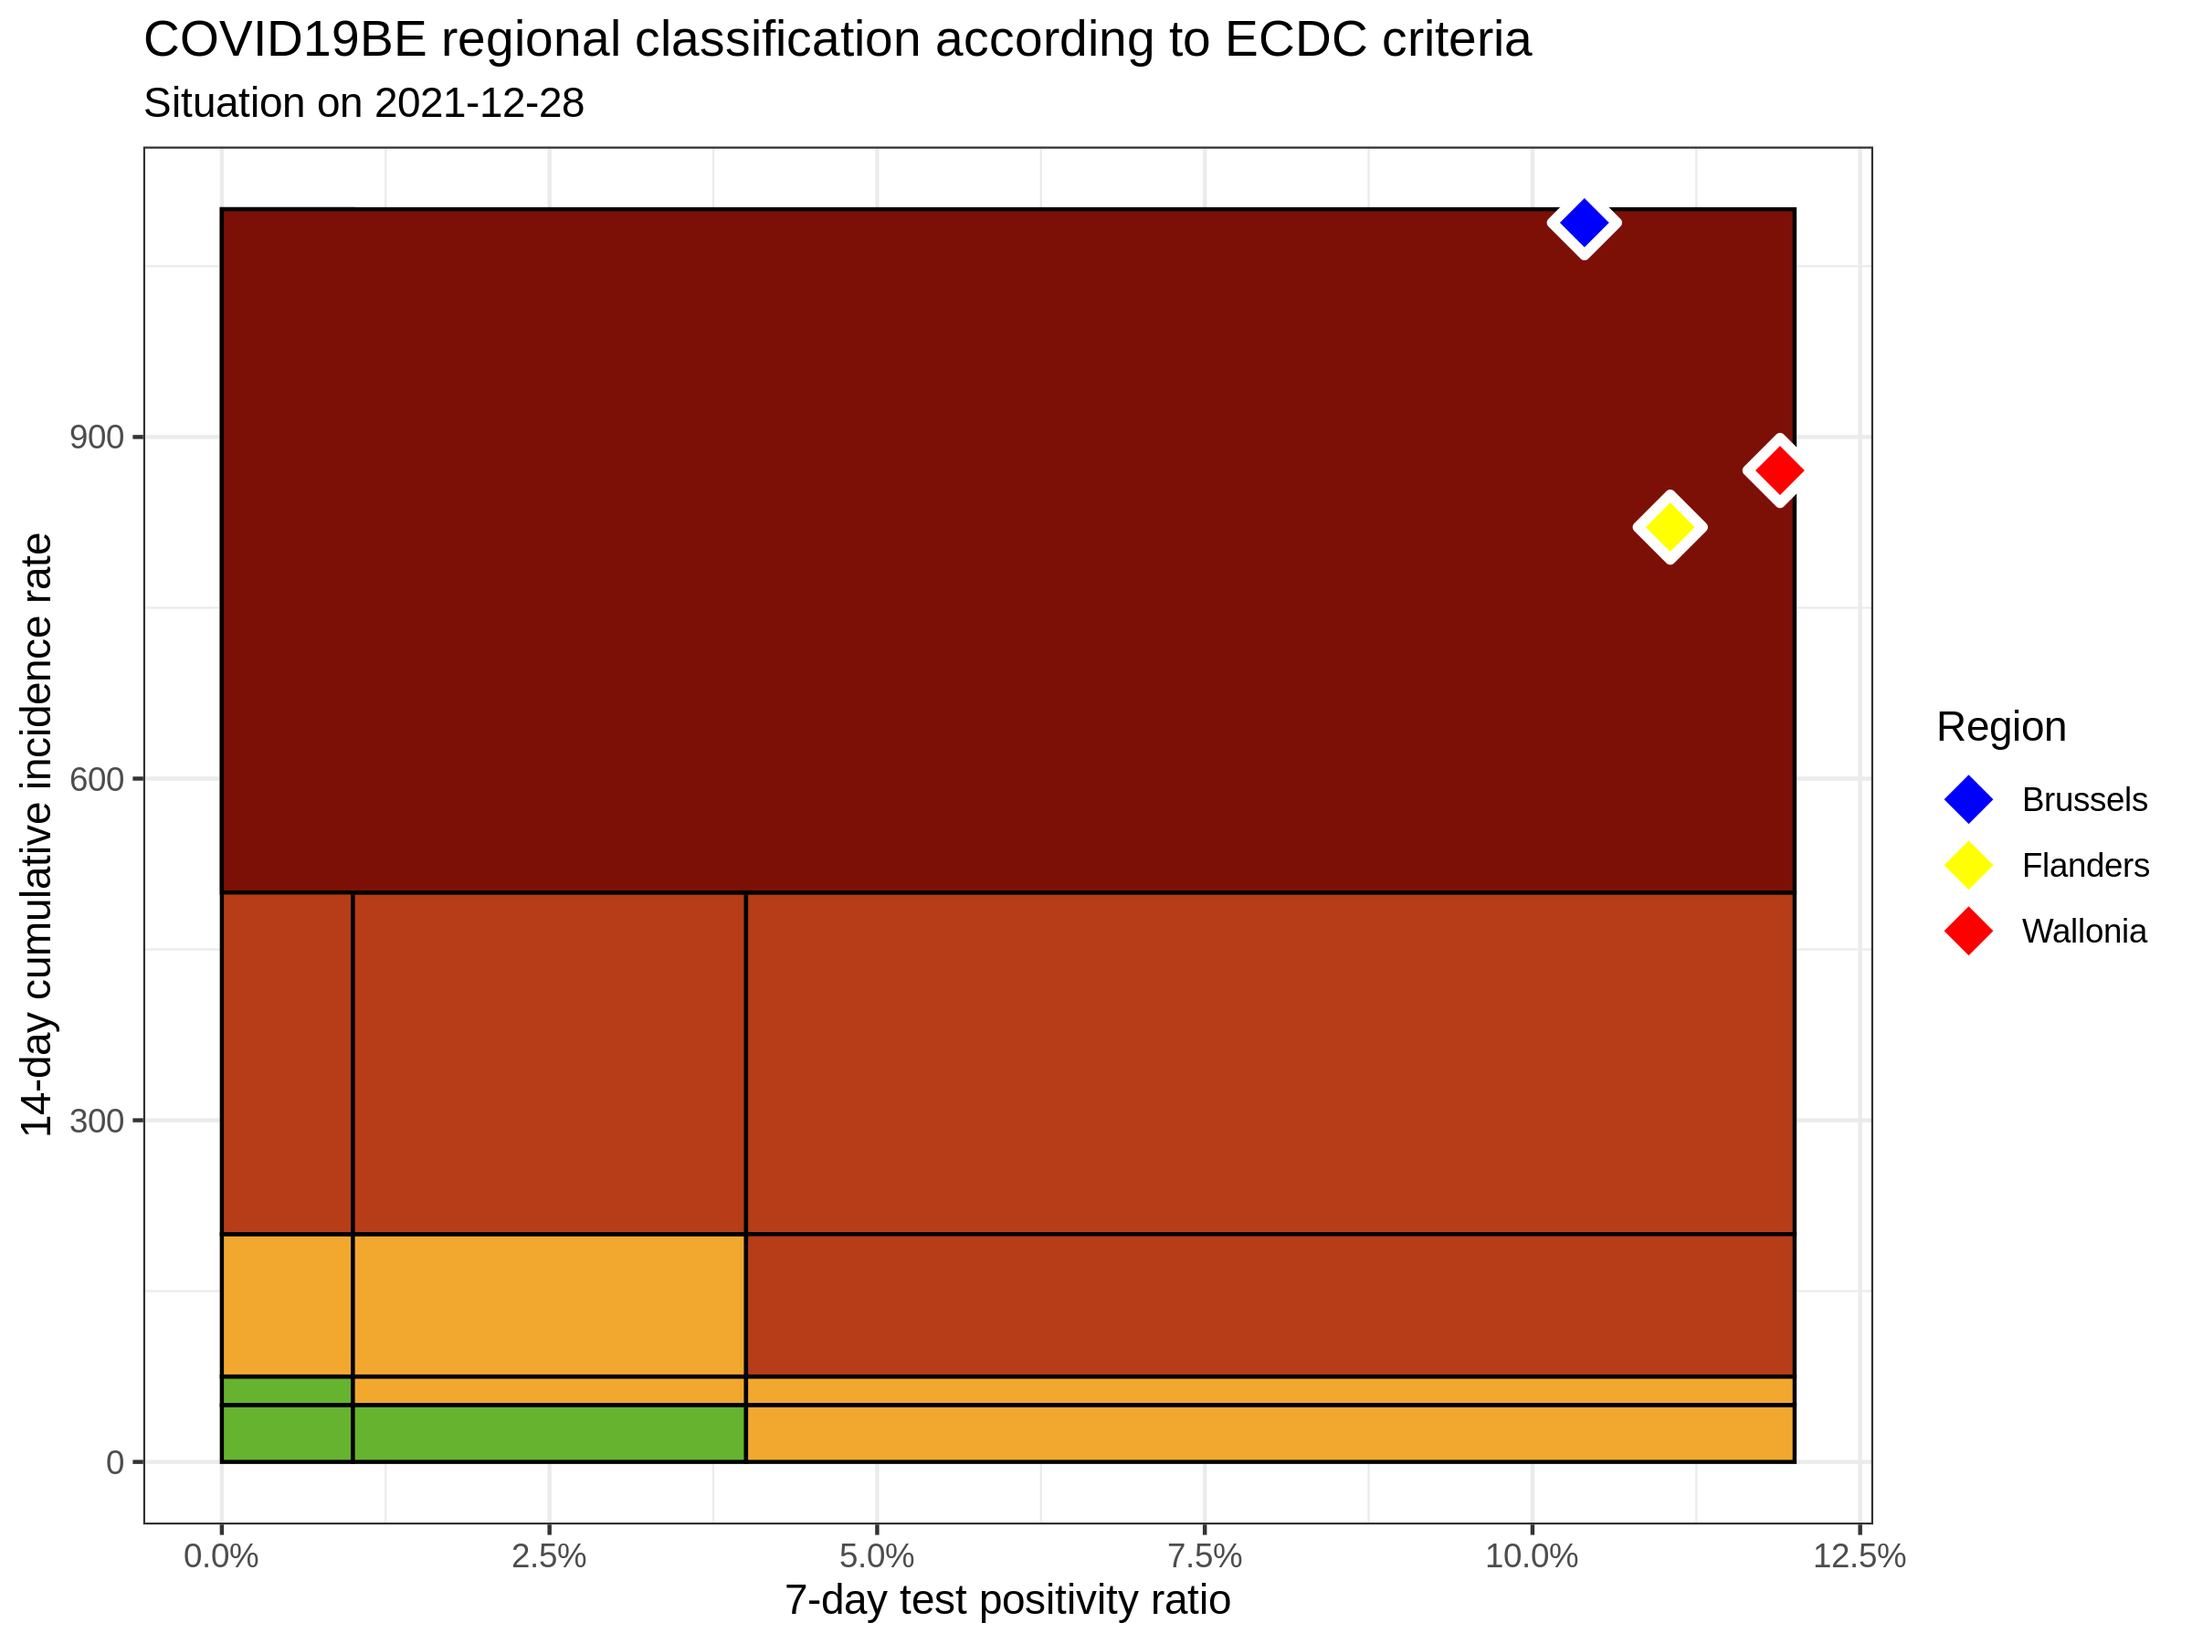
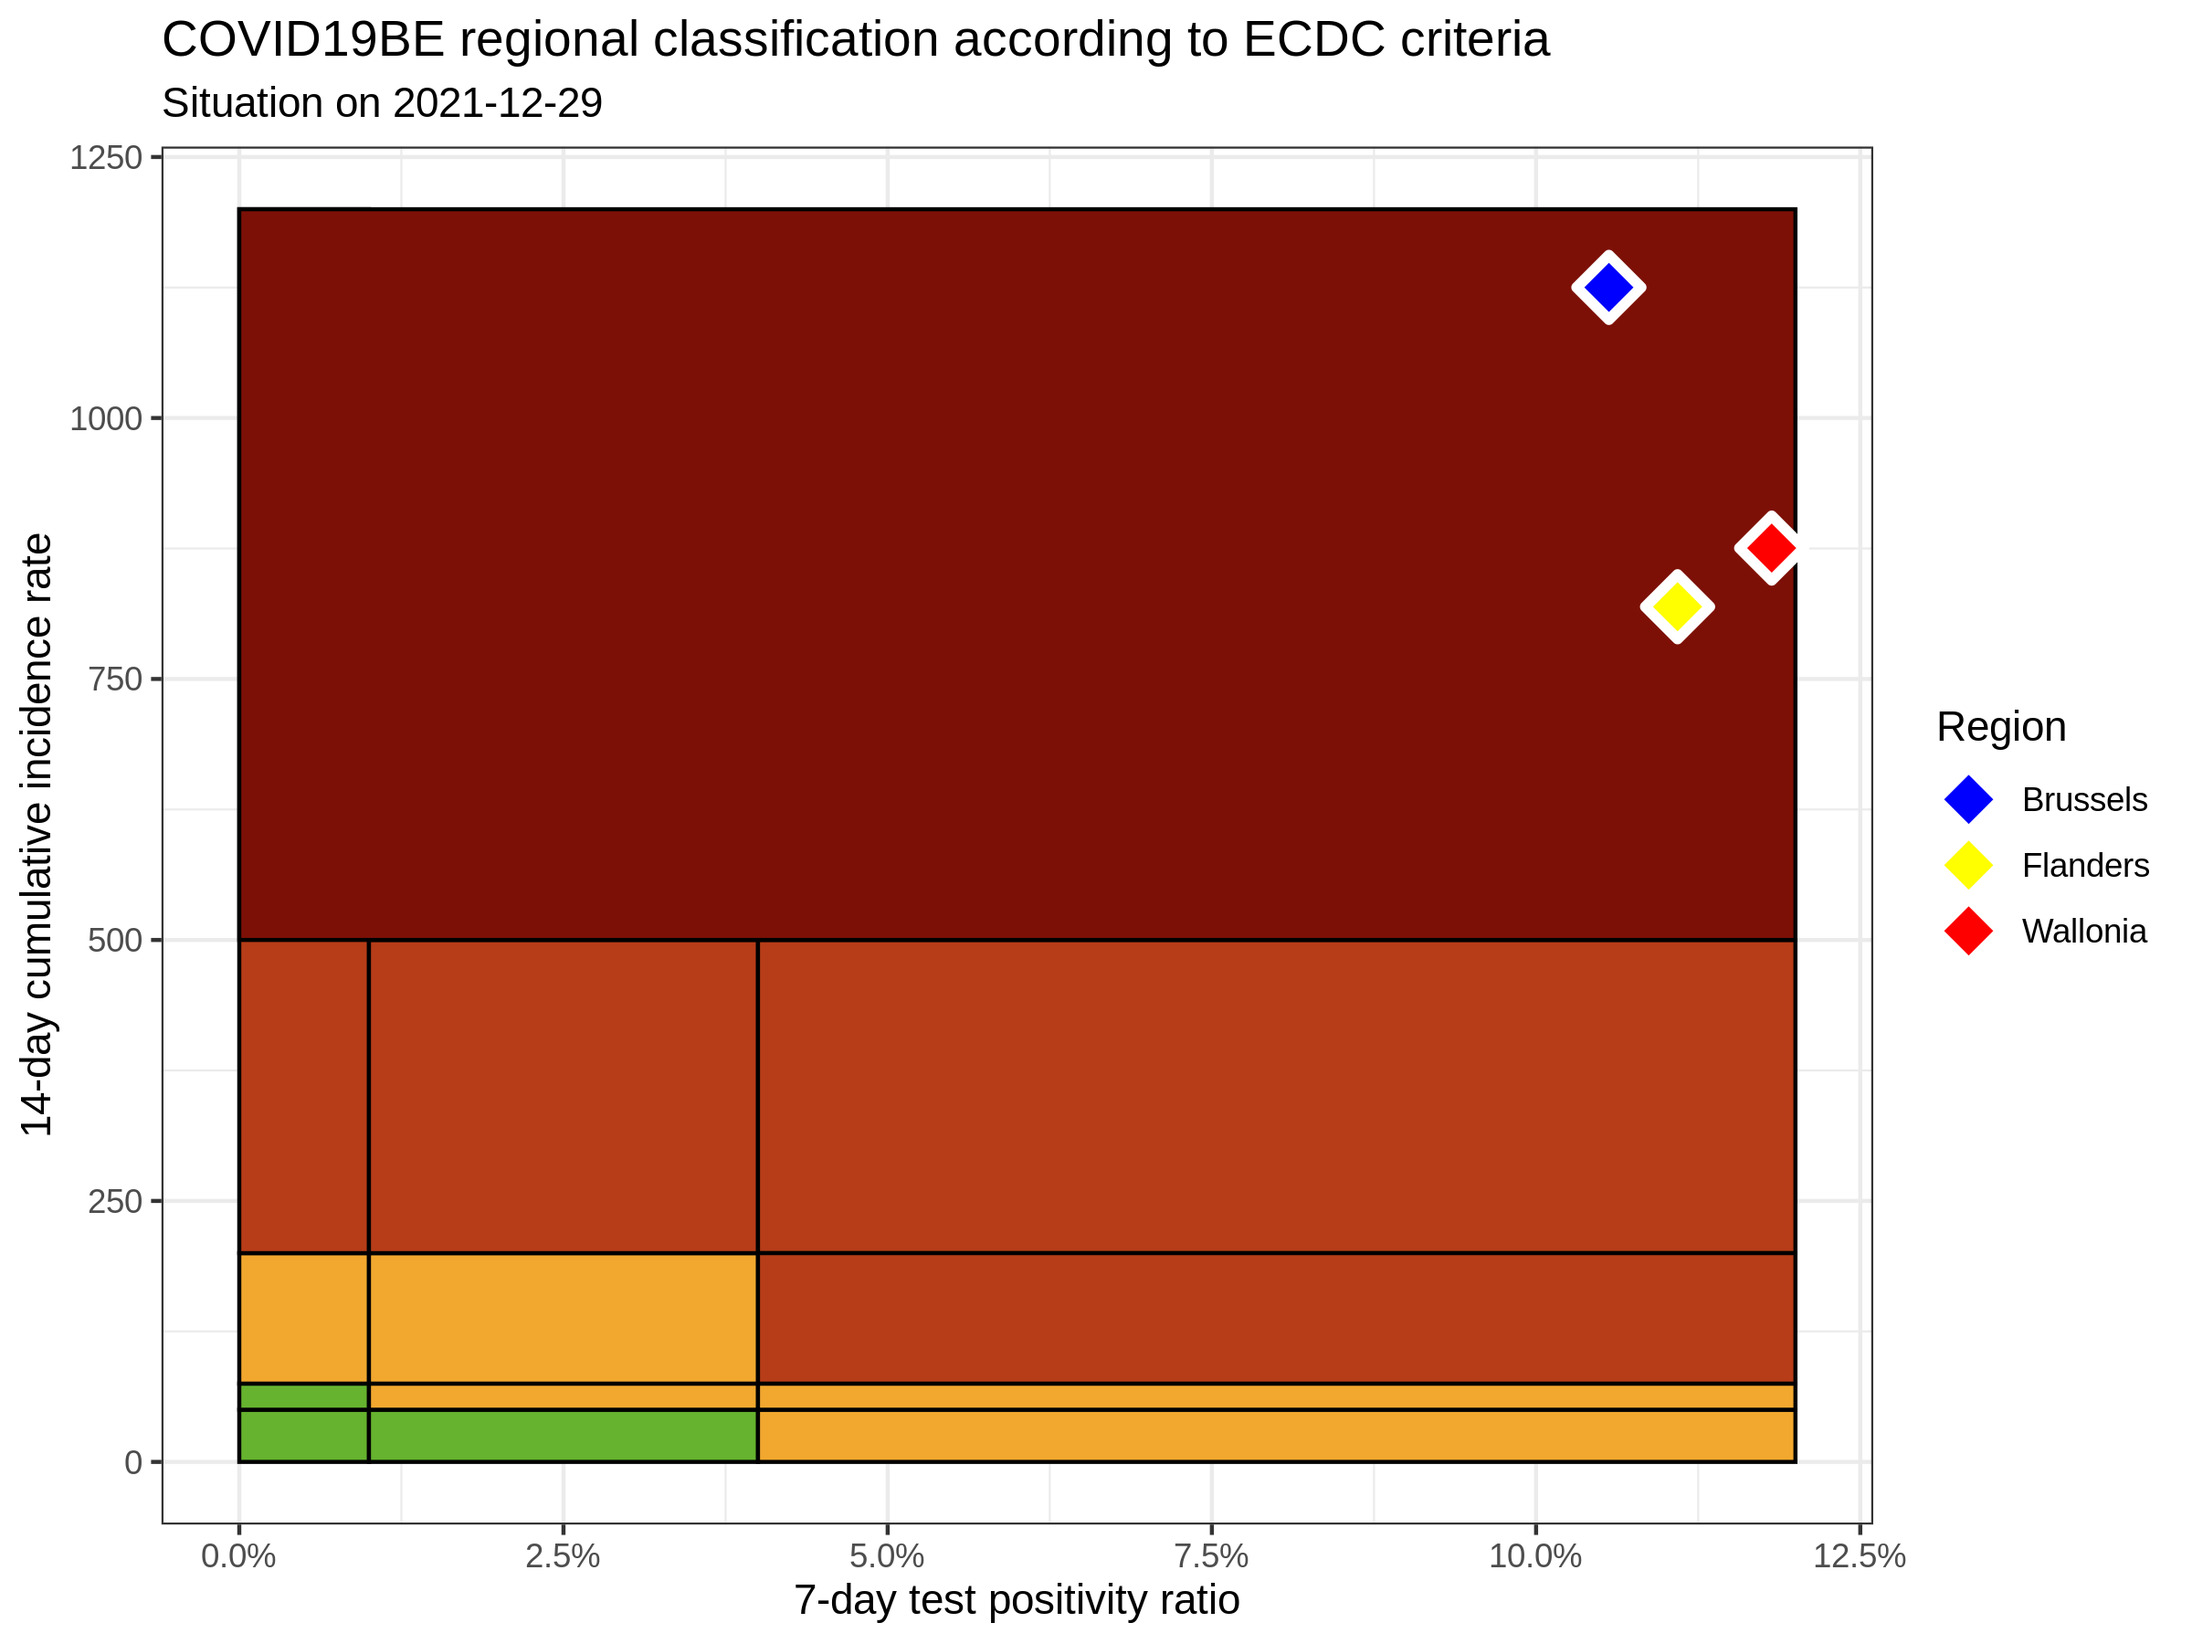
update situation

diff --git a/ecdc-trend/README.md b/ecdc-trend/README.md
@@ -11,9 +11,9 @@
 
 |          | INC14 |  INC7 |   TST7 | TST\_POS7 | REGION   |     POP | INC14\_RT |       PR7 |          GR |
 | :------- | ----: | ----: | -----: | --------: | :------- | ------: | --------: | --------: | ----------: |
-| Brussels | 13275 |  6716 |  73669 |      7659 | Brussels | 1219970 | 1088.1415 | 0.1039650 |   0.0239366 |
-| Flanders | 54609 | 22630 | 234942 |     25964 | Flanders | 6653062 |  820.8100 | 0.1105124 | \-0.2923481 |
-| Wallonia | 31761 | 12941 | 124673 |     14822 | Wallonia | 3648206 |  870.5923 | 0.1188870 | \-0.3123804 |
+| Brussels | 13726 |  7213 |  73048 |      7715 | Brussels | 1219970 | 1125.1096 | 0.1056155 |   0.1074774 |
+| Flanders | 54502 | 23404 | 233117 |     25855 | Flanders | 6653062 |  819.2017 | 0.1109100 | \-0.2474114 |
+| Wallonia | 31936 | 13268 | 123807 |     14630 | Wallonia | 3648206 |  875.3892 | 0.1181678 | \-0.2892651 |
 
 ### Read more
 
